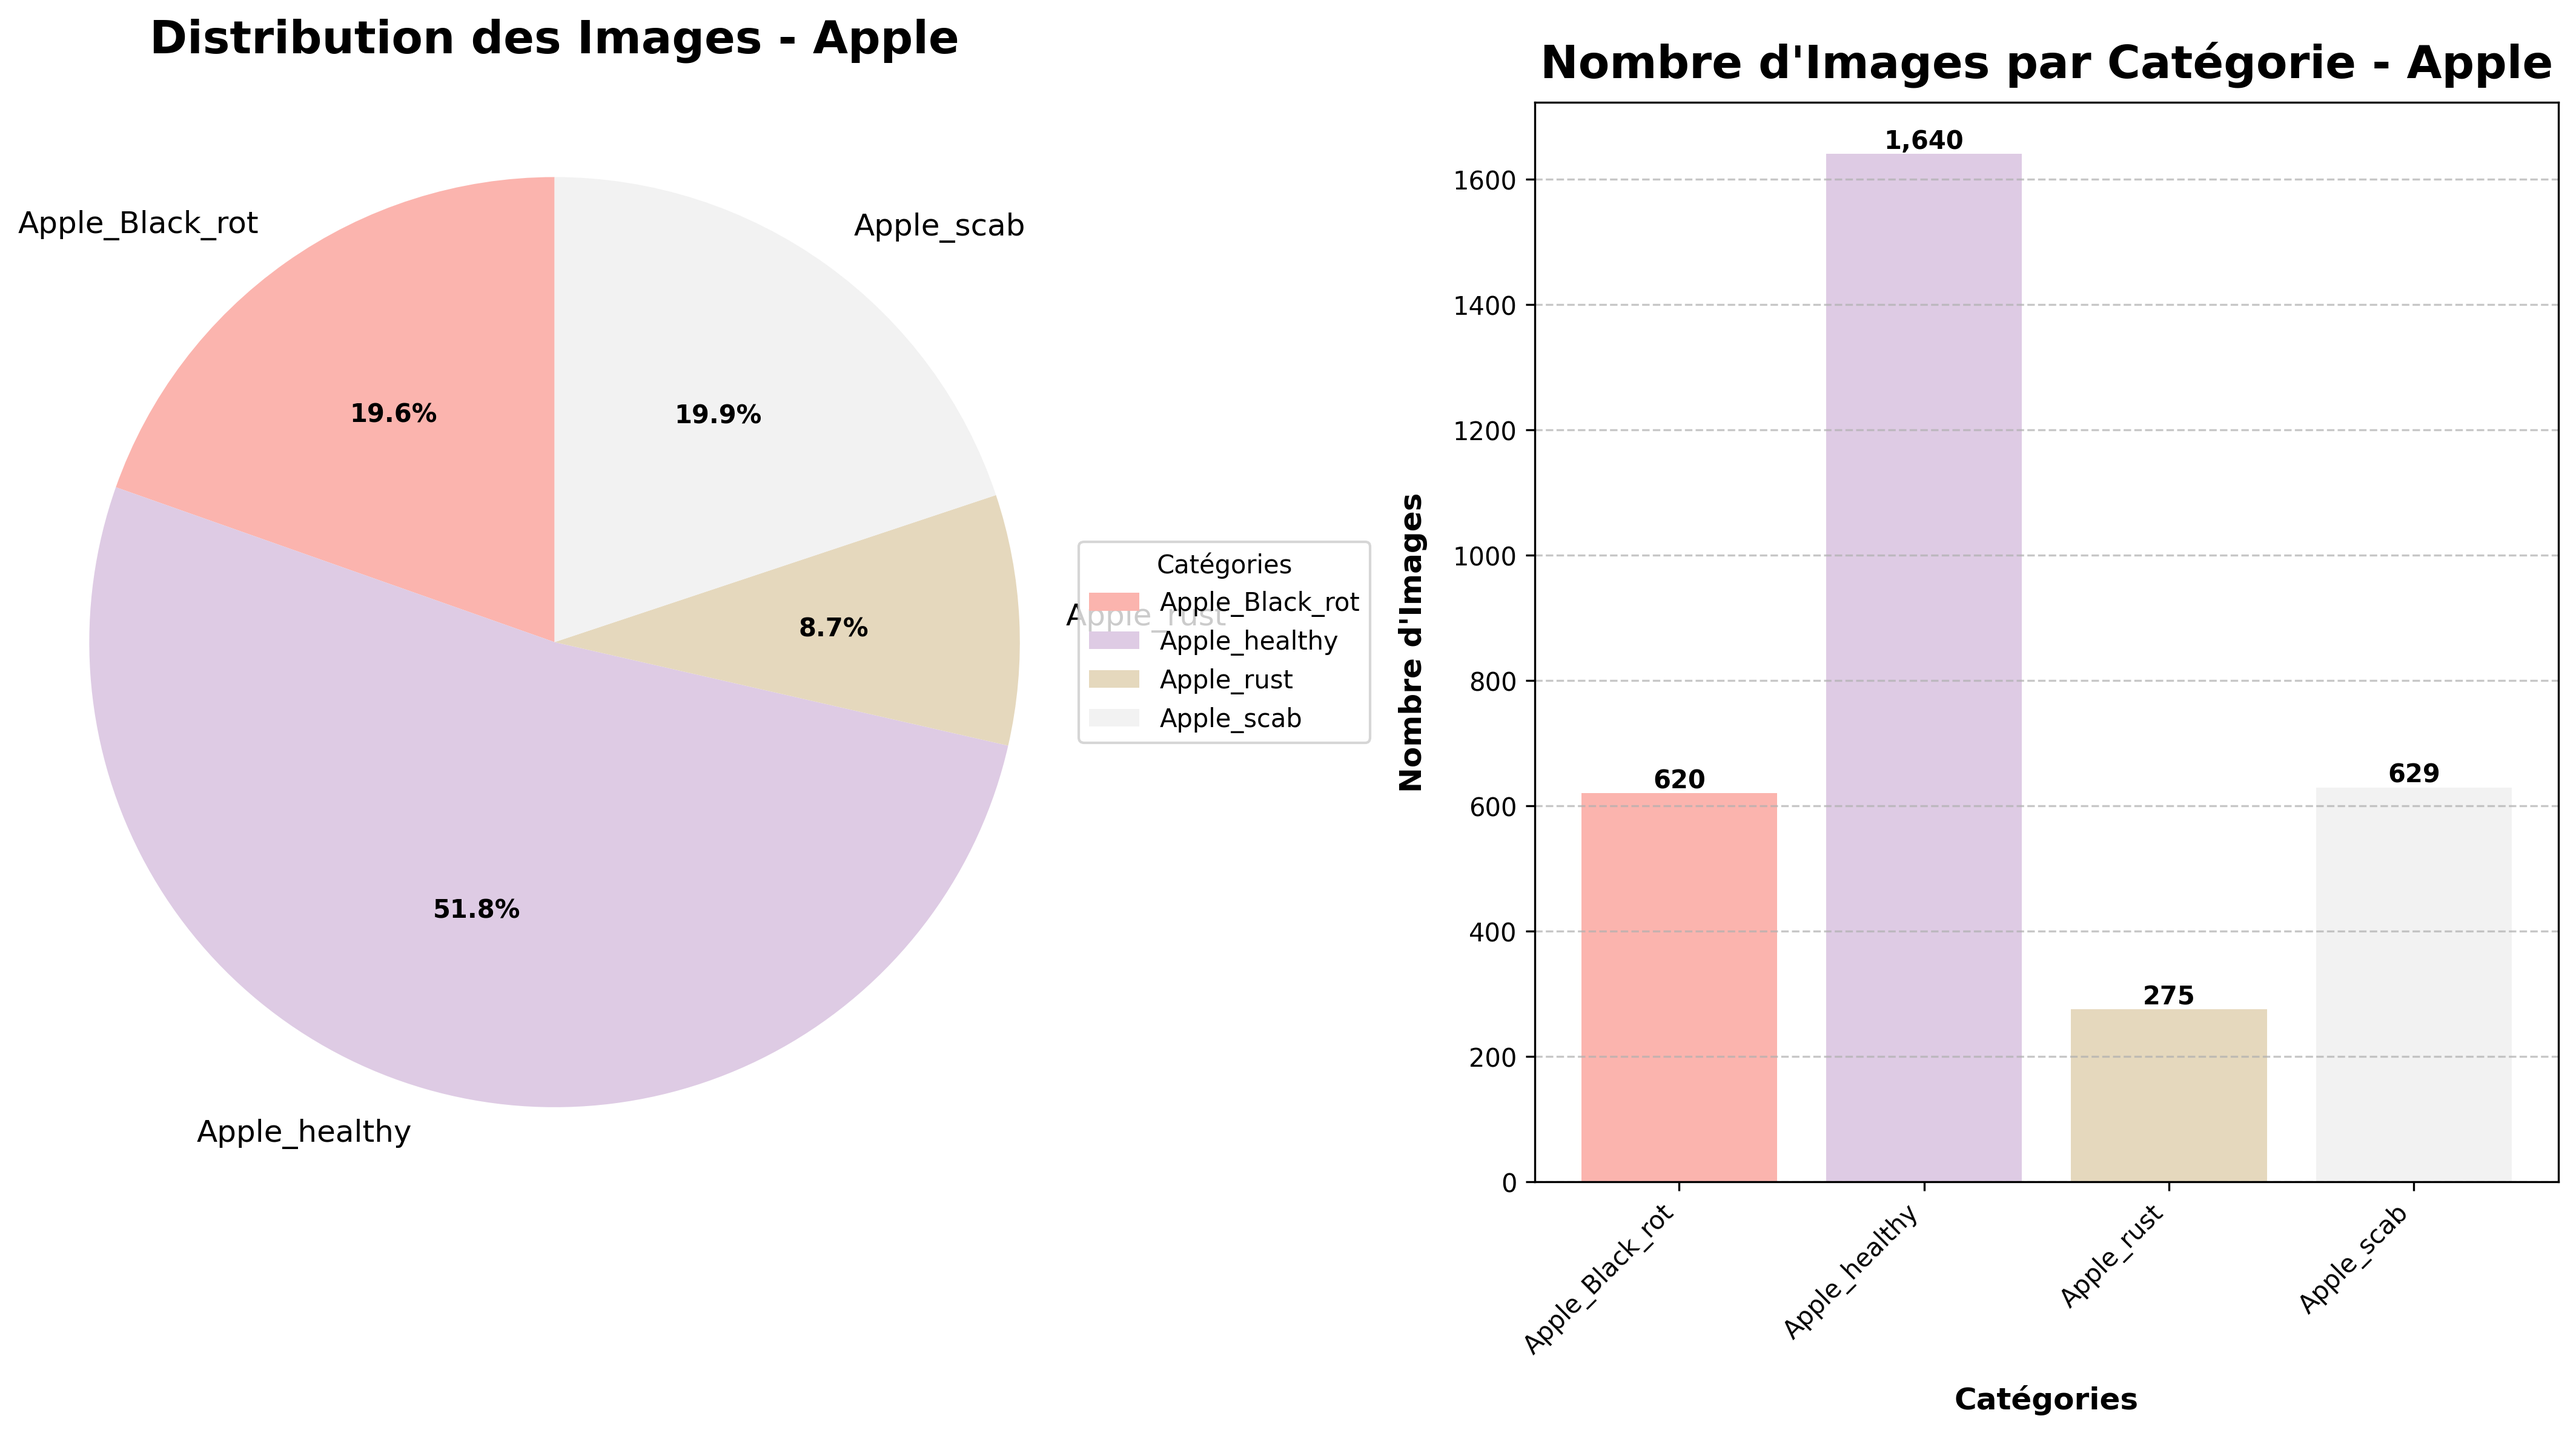
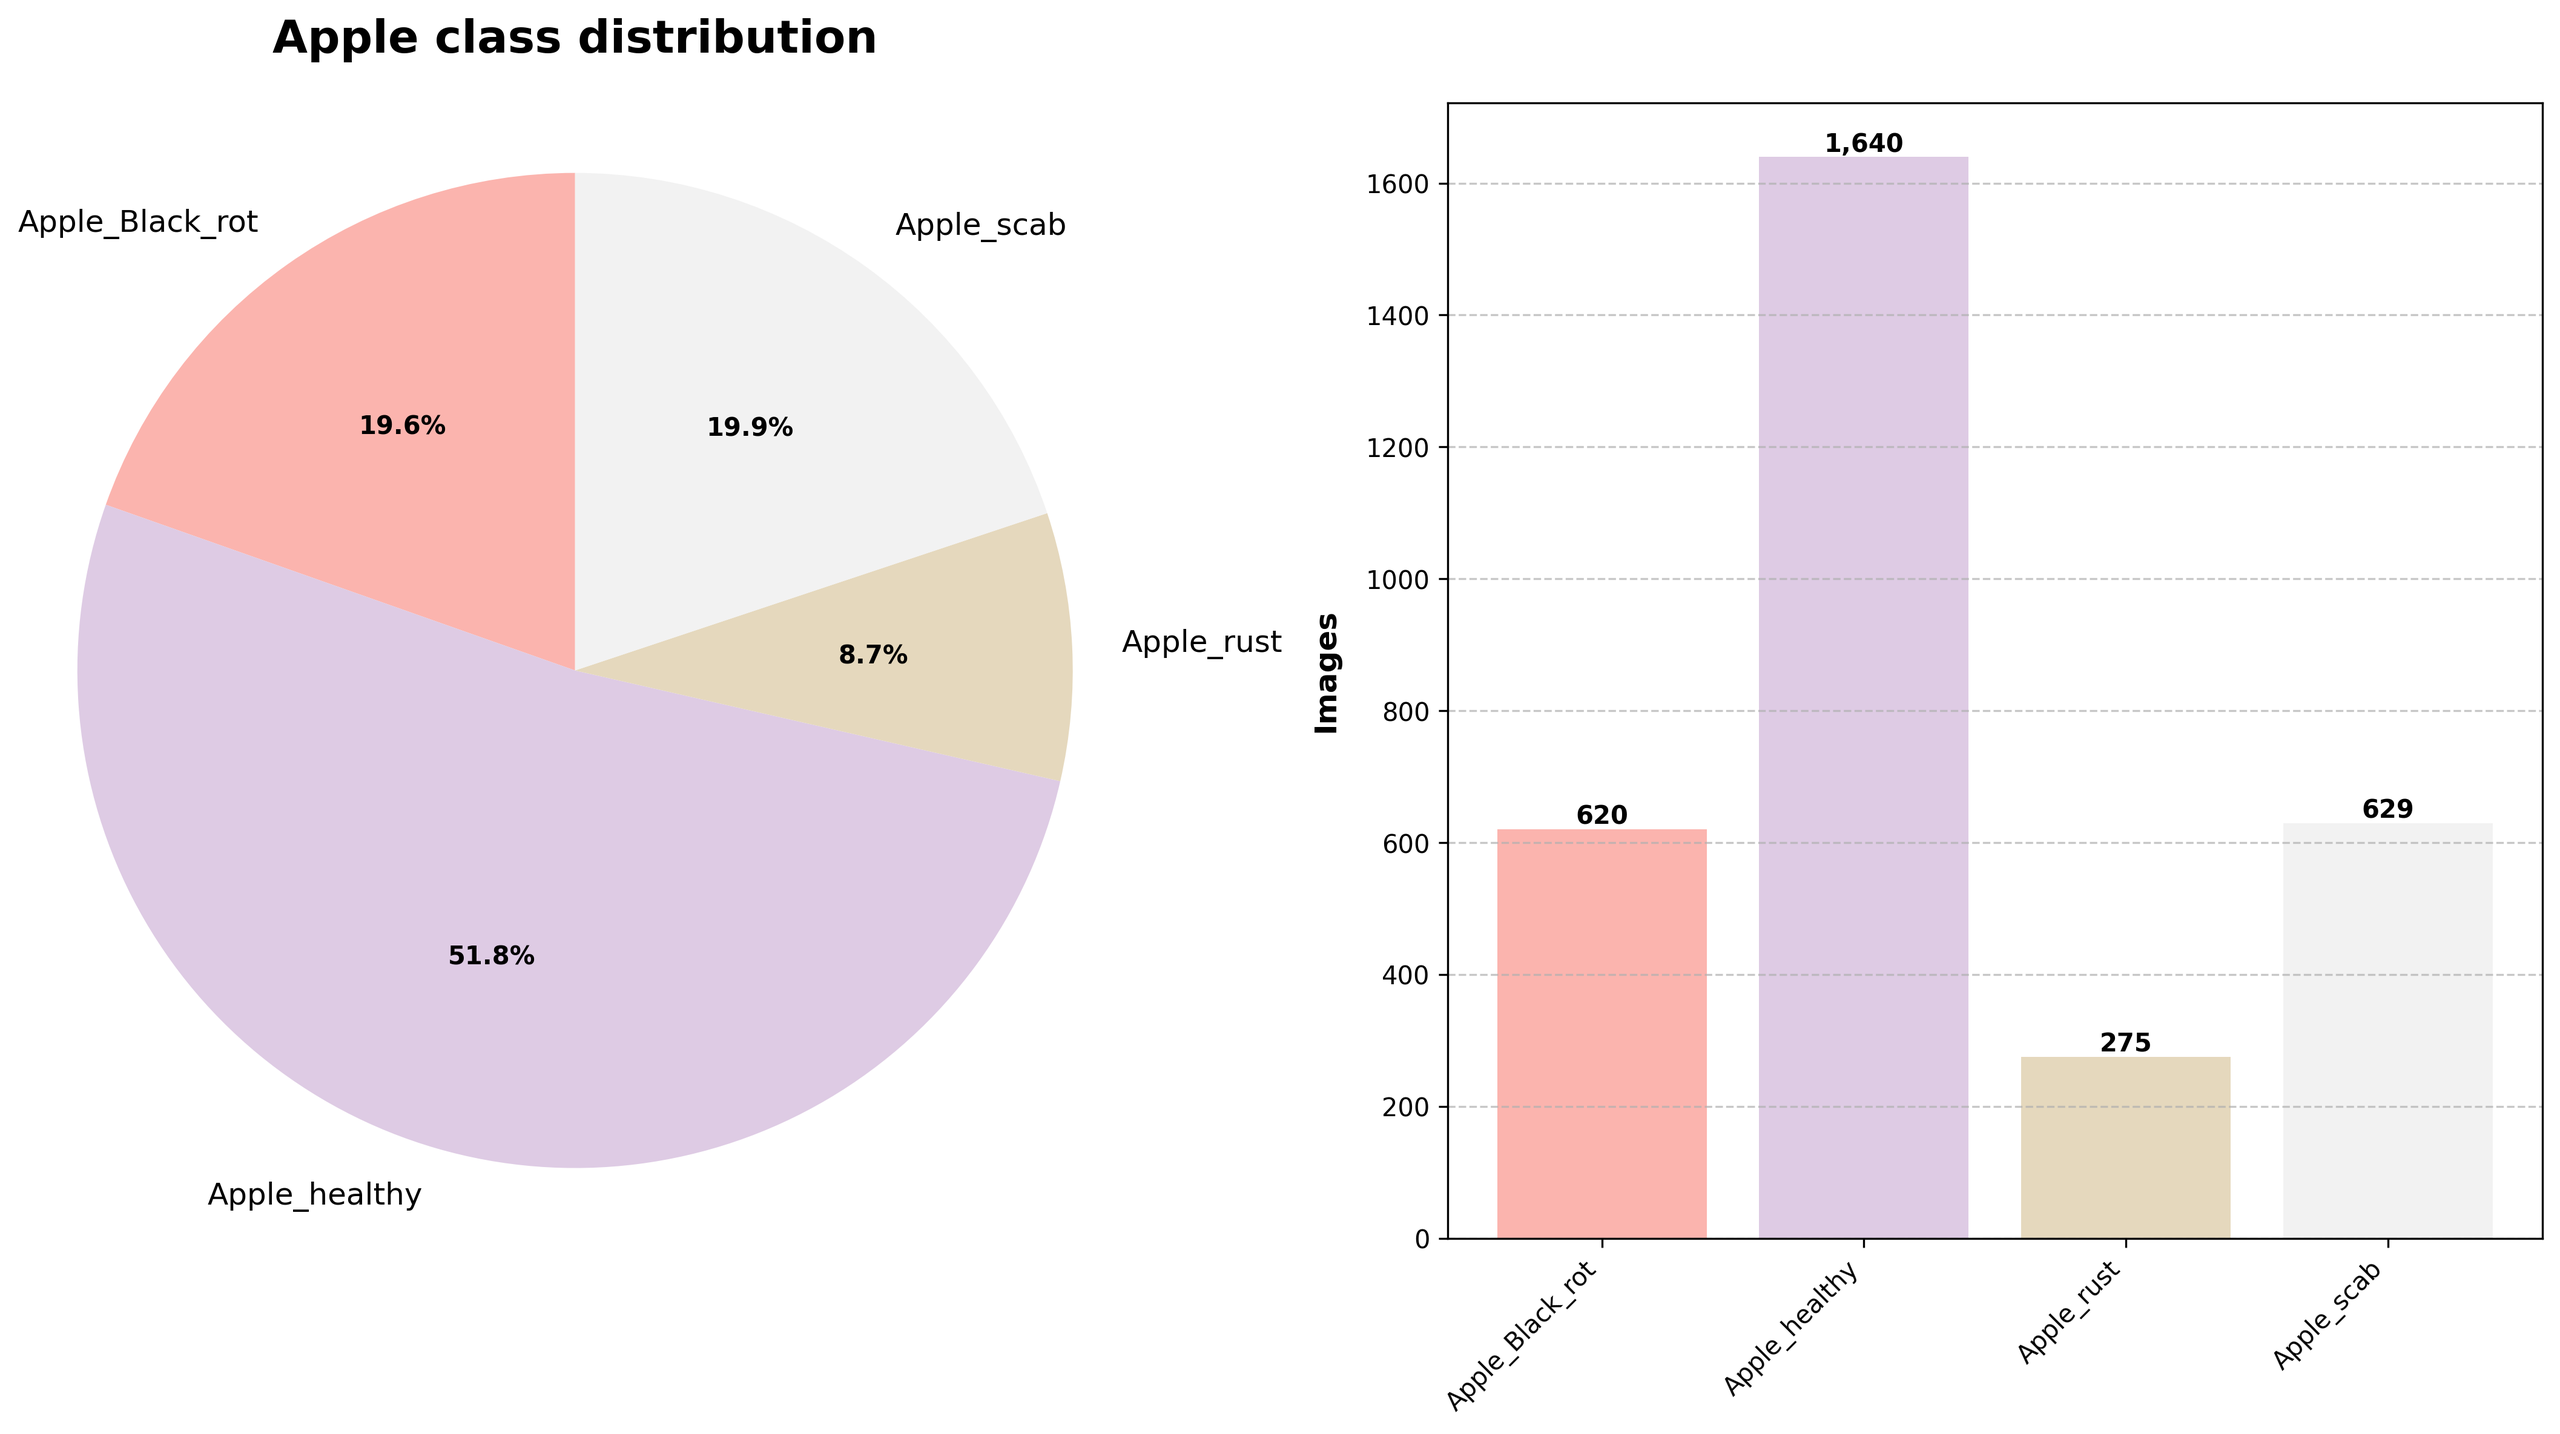
fix style of charts

diff --git a/Distribution.py b/Distribution.py
@@ -1,7 +1,4 @@
 #!/usr/bin/env python3
-"""
-Distribution.py - Analyze and visualize image dataset distributions
-"""
 import os
 import sys
 import numpy as np
@@ -13,7 +10,6 @@ from pathlib import Path
 os.environ['TF_CPP_MIN_LOG_LEVEL'] = '2'
 
 # Matplotlib configuration
-plt.style.use('seaborn')  # Use a better style
 plt.rcParams.update({
     'figure.autolayout': True,
     'axes.labelweight': 'bold',
@@ -97,7 +93,7 @@ def create_charts(data: dict, title: str) -> None:
     # Amélioration du style du camembert
     plt.setp(autotexts, size=10, weight="bold")
     plt.setp(texts, size=12)
-    plt.title(f'Distribution of Images - {title}', pad=20)
+    plt.title(f'{title} class distribution', pad=20)
     plt.axis('equal')
 
     # Graphique en barres (à droite)
@@ -108,8 +104,7 @@ def create_charts(data: dict, title: str) -> None:
         color=colors
     )
 
-    plt.title(f'Number of images - {title}')
-    plt.xlabel('Catégories', fontsize=12, labelpad=10)
+    plt.xlabel('', fontsize=12, labelpad=10)
     plt.ylabel('Images', fontsize=12, labelpad=10)
 
     # Rotation et ajustement des labels
